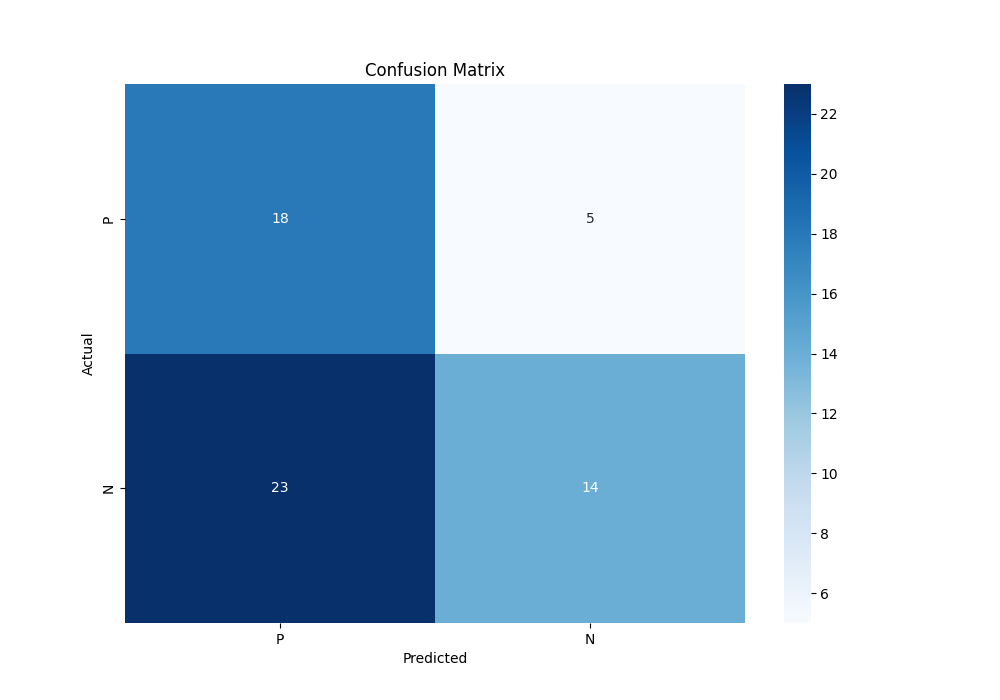
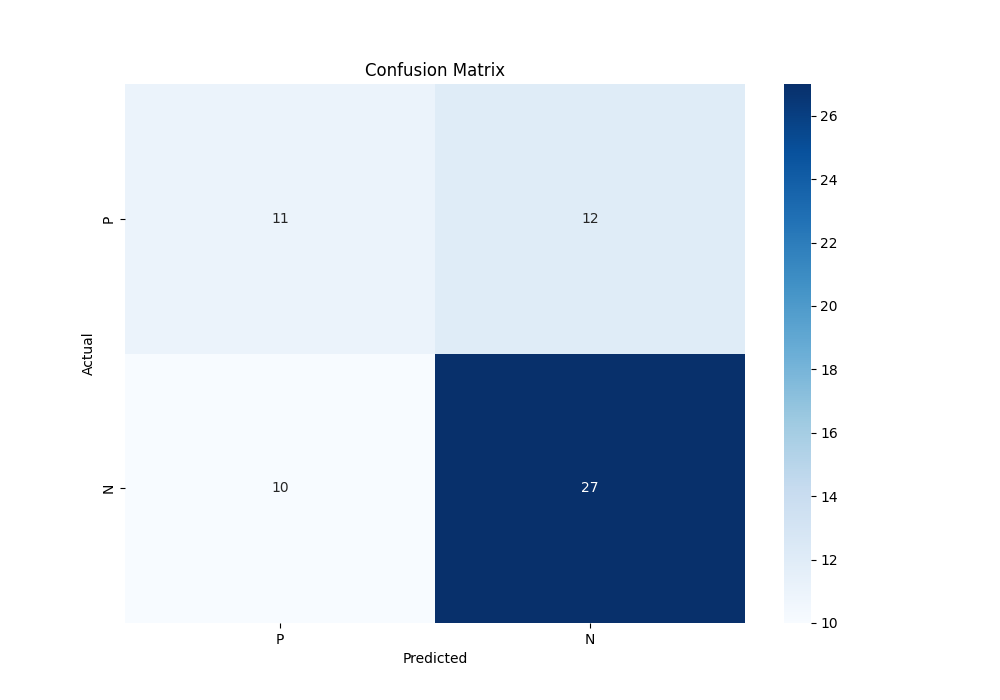
x

diff --git a/Dataset/7-Dataset/QTSumm/combined/manual/choose.py b/Dataset/7-Dataset/QTSumm/combined/manual/choose.py
@@ -2,6 +2,7 @@ import pandas as pd
 import matplotlib.pyplot as plt
 from sklearn.metrics import confusion_matrix, precision_score, recall_score
 import seaborn as sns
+import numpy as np
 
 # Load the CSV file
 file_path = 'manual.csv'  # Update this path as needed
@@ -34,17 +35,61 @@ def update_conditions(threshold):
     # Assign new predictions to the correct 'Predicted condition' column
     data['Predicted condition'] = new_predicted_conditions
 
-# Define the threshold
-threshold = 25
+# Evaluate model for thresholds from 20 to 40 and store precision and recall
+thresholds = range(20, 41)
+precisions = []
+recalls = []
 
-# Update conditions based on the threshold
+for threshold in thresholds:
+    update_conditions(threshold)
+    actual_conditions = data['Actual condition']
+    predicted_conditions = data['Predicted condition']
+    precision = precision_score(actual_conditions, predicted_conditions, pos_label='P')
+    recall = recall_score(actual_conditions, predicted_conditions, pos_label='P')
+    precisions.append(precision)
+    recalls.append(recall)
+
+# Find the intersection point
+intersection_threshold = None
+intersection_value = None
+
+# Loop through thresholds to find the intersection
+for i in range(1, len(thresholds)):
+    if precisions[i-1] < recalls[i-1] and precisions[i] >= recalls[i]:
+        # Linear interpolation to find the intersection point
+        x1, y1 = thresholds[i-1], precisions[i-1]
+        x2, y2 = thresholds[i], precisions[i]
+        x3, y3 = thresholds[i-1], recalls[i-1]
+        x4, y4 = thresholds[i], recalls[i]
+
+        precision_slope = (y2 - y1) / (x2 - x1)
+        recall_slope = (y4 - y3) / (x4 - x3)
+
+        intersection_threshold = (y3 - y1 + precision_slope * x1 - recall_slope * x3) / (precision_slope - recall_slope)
+        intersection_value = y1 + precision_slope * (intersection_threshold - x1)
+        break
+
+# Print the intersection point if found
+if intersection_threshold is not None and intersection_value is not None:
+    print(f'Intersection Point: Threshold={intersection_threshold:.2f}, Value={intersection_value:.2f}')
+
+# Plot Precision and Recall vs. Threshold
+plt.figure(figsize=(10, 7))
+plt.plot(thresholds, precisions, label='Precision', marker='o')
+plt.plot(thresholds, recalls, label='Recall', marker='o')
+plt.xlabel('Threshold Overall Similarity Value')
+plt.ylabel('Score')
+plt.title('Precision and Recall vs. Threshold')
+plt.legend()
+plt.grid(True)
+plt.savefig('precision_recall_vs_threshold.png')
+plt.close()
+
+# Define the threshold for final update and reporting
+threshold = 33.48
 update_conditions(threshold)
 
-# Save the updated CSV
-updated_csv_path = 'updated_manual.csv'
-data.to_csv(updated_csv_path, index=False)
-
-# Calculate confusion matrix, precision, and recall
+# Calculate confusion matrix, precision, and recall for the final threshold
 actual_conditions = data['Actual condition']
 predicted_conditions = data['Predicted condition']
 cm = confusion_matrix(actual_conditions, predicted_conditions, labels=['P', 'N'])
@@ -67,12 +112,25 @@ total_conditions = len(actual_conditions)
 positive_ratio = total_positives / total_conditions
 negative_ratio = total_negatives / total_conditions
 
+# Add intersection point to the report if found
+if intersection_threshold is not None and intersection_value is not None:
+    intersection_report = f"""
+## Intersection Point
+- **Threshold:** {intersection_threshold:.2f}
+- **Precision and Recall Value:** {intersection_value:.2f}
+"""
+else:
+    intersection_report = "\n## Intersection Point\n- No intersection found\n"
+
 # Generate the report.md file
 report_content = f"""
 # Model Evaluation Report
 
 ## Confusion Matrix
 ![Confusion Matrix](confusion_matrix.png)
+
+## Precision and Recall vs. Threshold
+![Precision and Recall vs. Threshold](precision_recall_vs_threshold.png)
 
 ## Metrics
 - **Precision:** {precision:.2f}
@@ -83,6 +141,8 @@ report_content = f"""
 - **Total Negatives (N):** {total_negatives}
 - **Positive Ratio:** {positive_ratio:.2f}
 - **Negative Ratio:** {negative_ratio:.2f}
+
+{intersection_report}
 """
 
 with open('report.md', 'w') as report_file:

diff --git a/Dataset/7-Dataset/QTSumm/combined/manual/report.md b/Dataset/7-Dataset/QTSumm/combined/manual/report.md
@@ -4,12 +4,21 @@
 ## Confusion Matrix
 ![Confusion Matrix](confusion_matrix.png)
 
+## Precision and Recall vs. Threshold
+![Precision and Recall vs. Threshold](precision_recall_vs_threshold.png)
+
 ## Metrics
-- **Precision:** 0.44
-- **Recall:** 0.78
+- **Precision:** 0.52
+- **Recall:** 0.48
 
 ## Actual Condition Counts and Ratios
 - **Total Positives (P):** 23
 - **Total Negatives (N):** 37
 - **Positive Ratio:** 0.38
 - **Negative Ratio:** 0.62
+
+
+## Intersection Point
+- **Threshold:** 33.48
+- **Precision and Recall Value:** 0.50
+
